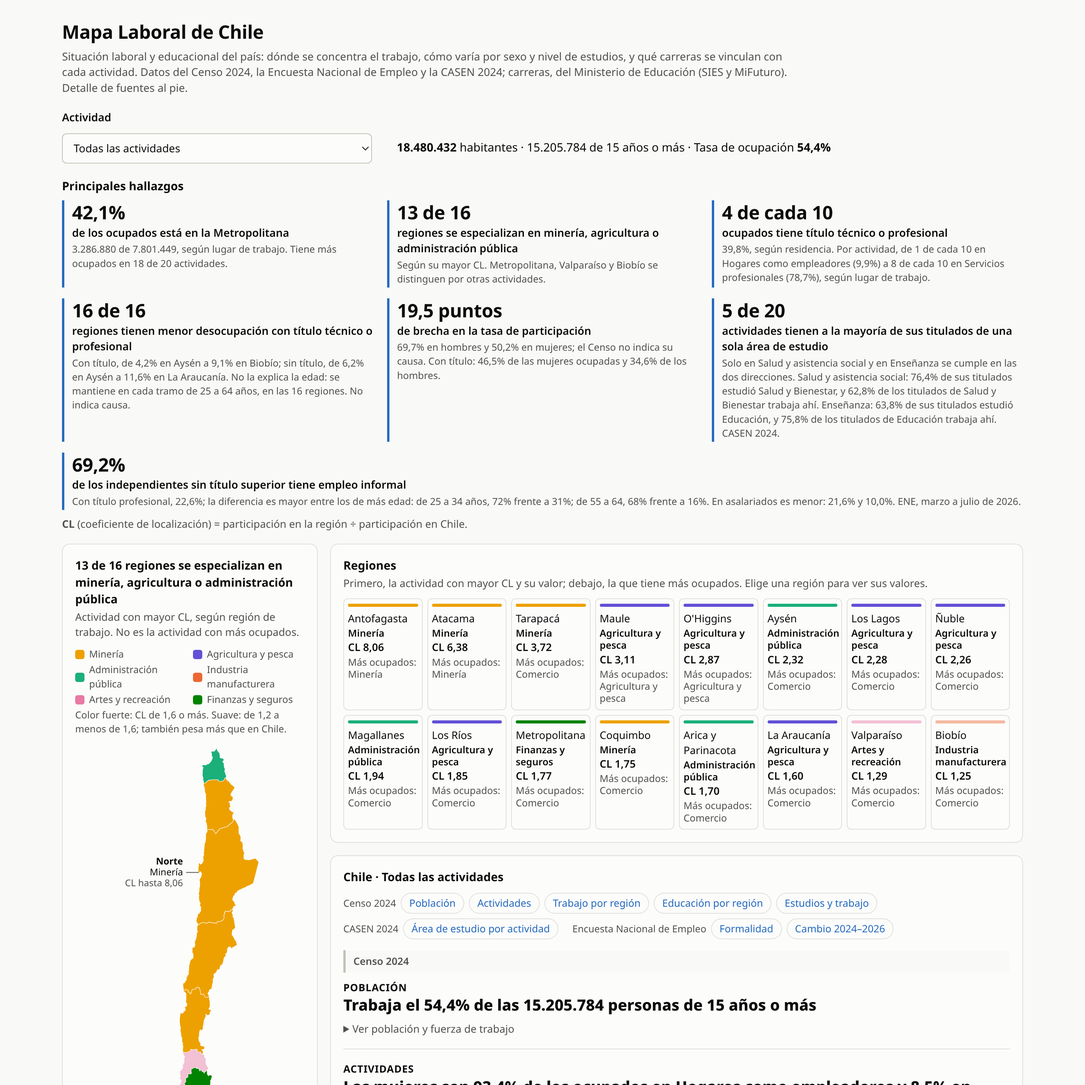
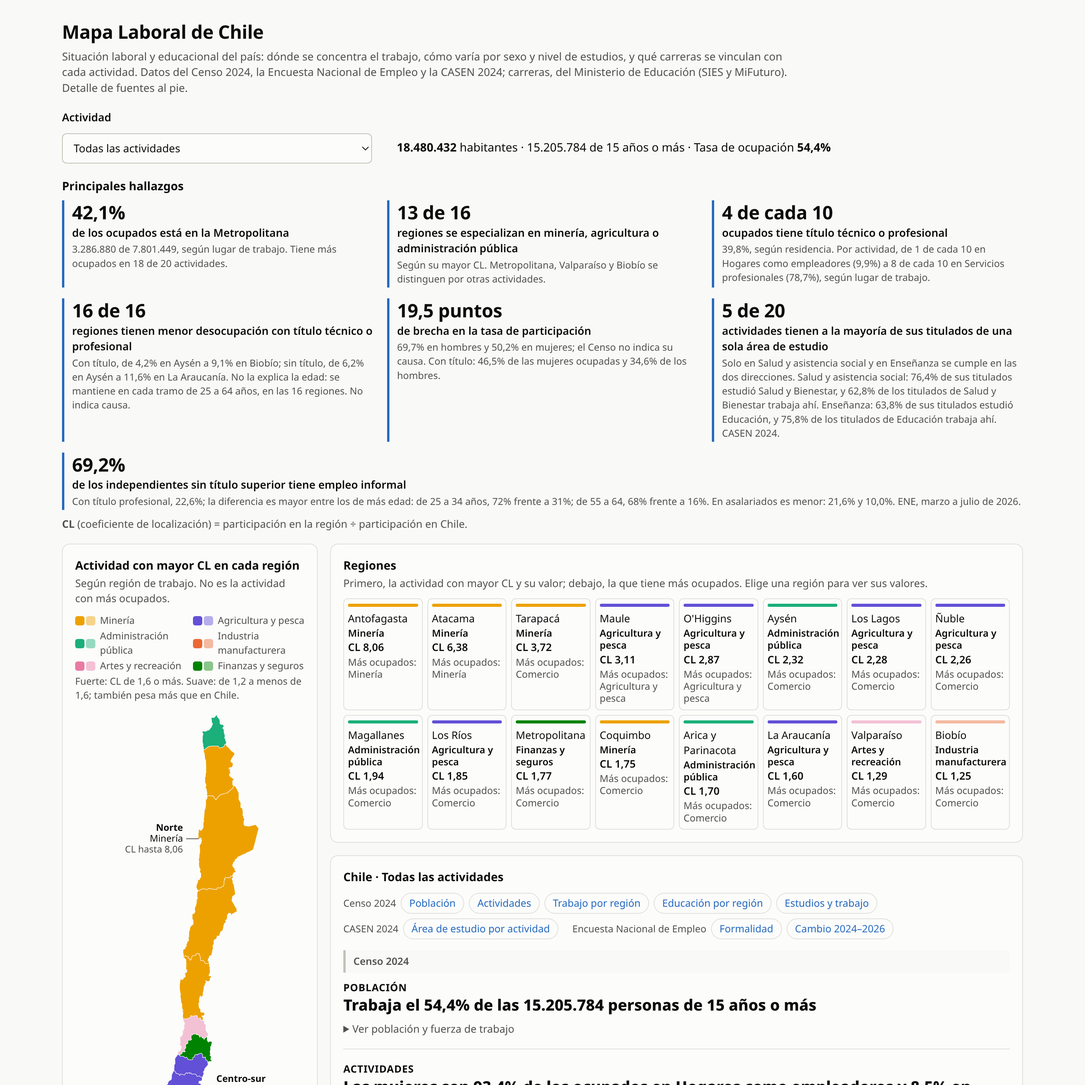
Ajusta la diagramación y los colores del resumen para que se lean a la primera
- Lista de regiones en 2 columnas entre 901 y 1290 px: el hueco junto al mapa baja de 661 a 262 px
- Título del mapa propio ("Actividad con mayor CL en cada región"), sin repetir la tarjeta
- Leyenda con el par fuerte y suave de cada actividad
- Desocupados en gris oscuro en vez de negro (validado en modo claro y oscuro) y "Sin dato" con textura
- La cabecera no corta "Tasa de ocupación" a 1000 px

Changed region(s): [[0.0621, 0.4971, 0.2796, 1.0]]

diff --git a/docs/index.html b/docs/index.html
@@ -13,12 +13,15 @@ Estructura de la página. generar_mapa.py le agrega los estilos de css/, el cód
    no, porque en Formalidad, la sección anterior, significan informal y formal. Validados con validate_palette.js (--ordinal).
    Área principal (--area) en morado, un tono que no usan las secciones vecinas (verde = título, azul y ocre = formalidad);
    el resto va en gris, como contexto. Validado con validate_palette.js en claro y oscuro.
-   Sin título superior (--tit-sin) va en gris: en verde, el color de los títulos en Educación por región, se leía como titulado. */
+   Sin título superior (--tit-sin) va en gris: en verde, el color de los títulos en Educación por región, se leía como titulado.
+   Desocupados (--desoc) en gris oscuro y no en negro: el negro hacía de la categoría más chica (5,1%) la que más pesaba.
+   Con ocupados (azul) separa ΔE 16,4 en claro y 19,9 en oscuro (validate_palette.js); los grises fallan croma a propósito,
+   son contexto neutro con rótulo y tabla. "Sin dato" va con textura: con el mismo gris que "fuera" eran un color para dos. */
 .viz-root{color-scheme:light;--plano:#f9f9f7;--sup:#fcfcfb;--t1:#0b0b0b;--t2:#52514e;--linea:#e1e0d9;--eje:#c3c2b7;--acento:#256abf;--hom:#256abf;--muj:#c8508a;--cl:#c9302f;--a24:#9d92ea;--a26:#4f3dbd;--g24:#cfcdc6;--g26:#9a9890;--tit-con:#08724d;--tit-sin:#a3a19a;--recibe:#0081a8;--ed-pro:#08724d;--fo-inf:#c08a1e;--fo-for:#2a6ea8;--fo-for-txt:#fff;--ed-tec:#8a8a1a;--entrega:#b5562b;--area:#8b3d9e;--area-no:#bdbbb3;--aviso-fondo:#fdf4e3;
---sd:#bdbbb3;--c0:#3987e5;--c1:#86b6ef;--c2:#cde2fb;--c3:#e2e0d8;--c4:#f7c6c1;--c5:#ee8a84;--c6:#c9302f;
+--sd:#bdbbb3;--desoc:#5f5e59;--desoc-txt:#fff;--c0:#3987e5;--c1:#86b6ef;--c2:#cde2fb;--c3:#e2e0d8;--c4:#f7c6c1;--c5:#ee8a84;--c6:#c9302f;
 --k0:#eda100;--k1:#6250d6;--k2:#1baf7a;--k3:#eb6834;--k4:#e87ba4;--k5:#008300;}
 @media (prefers-color-scheme:dark){.viz-root{color-scheme:dark;--plano:#0d0d0d;--sup:#1a1a19;--t1:#f0efec;--t2:#c3c2b7;--linea:#2c2c2a;--eje:#383835;--acento:#6da7ec;--hom:#4f8fe0;--muj:#d9619d;--cl:#e0605a;--a24:#7466d8;--a26:#b2a9f2;--g24:#45443f;--g26:#7a7872;--tit-con:#1aab78;--tit-sin:#62615b;--recibe:#1a9cc4;--ed-pro:#1aab78;--fo-inf:#c08400;--fo-for:#5a9ad0;--fo-for-txt:#0b0b0b;--ed-tec:#7a7a10;--entrega:#c9673a;--area:#b47ac7;--area-no:#55534e;--aviso-fondo:#2a2416;
---sd:#55534e;--c0:#5598e7;--c1:#256abf;--c2:#184f95;--c3:#383835;--c4:#7d2b2a;--c5:#b73a39;--c6:#ee8a84;
+--sd:#55534e;--desoc:#d6d4cd;--desoc-txt:#0b0b0b;--c0:#5598e7;--c1:#256abf;--c2:#184f95;--c3:#383835;--c4:#7d2b2a;--c5:#b73a39;--c6:#ee8a84;
 --k0:#c98500;--k1:#9085e9;--k2:#199e70;--k3:#d95926;--k4:#d55181;--k5:#008300;}}
 *{box-sizing:border-box}
 body{margin:0;background:var(--plano)}
@@ -69,7 +72,7 @@ details{margin-top:8px}summary{cursor:pointer;color:var(--t2);font-size:13.5px}
 .lista .v{font-variant-numeric:tabular-nums;font-weight:600}
 /* En el resumen, el nombre de la actividad no cabe junto a la región: va debajo, con su color al lado. */
 .lista small{display:flex;align-items:flex-start;gap:4px;font-size:12.5px;line-height:1.25;margin-top:2px;color:var(--t2);font-weight:400}
-.muestra{display:inline-block;flex:none;width:12px;height:12px;margin-top:1px;border-radius:3px}
+.muestra{display:inline-block;flex:none;width:12px;height:12px;margin-top:1px;border-radius:3px}.muestra+.muestra{margin-left:-4px}.nw{white-space:nowrap}
 .muestra.suave{opacity:.45}
 .leyenda-cat{display:grid;gap:4px;margin-top:10px;font-size:13px;color:var(--t2)}
 .leyenda-cat div{display:flex;align-items:center;gap:6px}
@@ -84,7 +87,7 @@ details{margin-top:8px}summary{cursor:pointer;color:var(--t2);font-size:13.5px}
 /* Partes de un todo: la barra usa tonos propios para no confundirse con los colores de actividad ni con el rojo y azul del mapa. */
 .barra-poblacion{display:flex;gap:2px;height:14px;margin:10px 0 4px}
 .barra-poblacion i{display:block;min-width:2px;border-radius:2px}
-.s-trabajan{background:var(--acento)}.s-buscan{background:var(--t1)}.s-no-buscan{background:var(--sd)}.s-sin-dato{background:var(--eje);box-shadow:inset 0 0 0 1px var(--sd)}
+.s-trabajan{background:var(--acento)}.s-buscan{background:var(--desoc)}.s-no-buscan{background:var(--sd)}.s-sin-dato{background:repeating-linear-gradient(135deg,var(--sd) 0 2px,transparent 2px 5px);box-shadow:inset 0 0 0 1px var(--sd)}
 .celda-muestra{display:flex;align-items:center;gap:6px}
 .total td{font-weight:650}
 /* Lo que un lector debe llevarse en segundos va en cifras grandes; el resto queda en los paneles. */
@@ -203,7 +206,7 @@ button.evc-grupo{all:unset;box-sizing:border-box;cursor:pointer}button.evc-grupo
 .sn-fila{display:grid;grid-template-columns:minmax(0,11rem) minmax(0,420px) auto;justify-content:start;align-items:center;gap:6px 12px;padding:3px 4px;border-radius:4px;font-size:13px}
 .sn-fila:hover,.sn-fila:focus-visible{background:var(--plano)}.sn-fila:focus-visible{outline:2px solid var(--acento)}
 .sn-barra{display:flex;gap:2px;height:20px}.sn-barra i{display:flex;align-items:center;justify-content:center;min-width:2px;border-radius:2px;font-style:normal;font-size:12px;color:#fff;font-variant-numeric:tabular-nums}
-.sn-barra i.s-no-buscan{color:var(--t1)}.sn-tasas{color:var(--t2);font-size:12.5px}.sn-tasas b{color:var(--t1);font-weight:600}
+.sn-barra i.s-no-buscan{color:var(--t1)}.sn-barra i.s-buscan{color:var(--desoc-txt)}.sn-tasas{color:var(--t2);font-size:12.5px}.sn-tasas b{color:var(--t1);font-weight:600}
 .gs-leyenda i.s-trabajan,.gs-leyenda i.s-buscan,.gs-leyenda i.s-no-buscan{border-radius:2px}
 .tcon{background:var(--tit-con)}.tsin{background:var(--tit-sin)}.gs-leyenda i.tcon,.gs-leyenda i.tsin{border-radius:2px}
 .gs-barra b{position:absolute;top:-3px;bottom:-3px;border-left:2px dashed var(--t1)}
@@ -276,6 +279,9 @@ button.sn-fila{font:inherit;color:inherit;background:none;border:0;text-align:le
 }
 @media(max-width:1290px){.lista{grid-template-columns:repeat(4,minmax(0,1fr))}}
 @media(max-width:1290px){.detalle{grid-column:1/-1}.tarjeta.mapa{grid-row:auto}}
+/* Entre 901 y 1290 px el detalle baja bajo el mapa (sus tablas necesitan ~860 px) y la lista quedaba a su lado, de
+   440 a 580 px de alto frente a 1170 del mapa: 500 a 660 px vacíos. En 2 columnas la lista se alarga hasta casi el mapa. */
+@media(min-width:901px) and (max-width:1290px){.lista{grid-template-columns:repeat(2,minmax(0,1fr))}}
 @media(max-width:900px){.grilla{grid-template-columns:minmax(0,1fr)}}
 @media(max-width:640px){.fo-reg.gs-cab{display:grid}.fo-reg.gs-cab .fo-nombre,.fo-reg.gs-cab span:nth-child(2){display:none}.fo-reg.gs-cab .fo-miles{grid-column:2}.fo-panel .fo-fila,.fo-reg{grid-template-columns:minmax(0,1fr) 6.6em}.fo-paneles{grid-template-columns:minmax(0,1fr)}.fo-fila{grid-template-columns:minmax(0,1fr) 5.6em;row-gap:2px}.fo-nombre{grid-column:1/-1}.ed-fila{grid-template-columns:minmax(0,1fr) 5.4em;row-gap:2px}.ed-fila .cl-nombre{grid-column:1/-1}.ed-fila .gs-num{grid-column:2}.ed-fila.gs-cab{display:grid}.ed-fila.gs-cab .cl-nombre,.ed-fila.gs-cab span:nth-child(2){display:none}.ar-fila{grid-template-columns:minmax(0,1fr) 5.4em;row-gap:2px}.ar-fila .cl-nombre{grid-column:1/-1}.ar-fila .gs-num{grid-column:2}.ar-fila.gs-cab{display:grid}.ar-fila.gs-cab .cl-nombre,.ar-fila.gs-cab span:nth-child(2){display:none}.tr-fila{grid-template-columns:minmax(0,1fr)}.gs-fila{grid-template-columns:3.4em minmax(0,1fr) 3.4em;row-gap:2px;padding:4px}.gs-nombre{grid-column:1/-1}.gs-cab{display:none}.sn-fila{grid-template-columns:minmax(0,1fr);row-gap:3px}.evc-col{width:26px}.evc-col em{font-size:11px}.evc-cols{gap:2px}.evc{padding-left:2em}.evc-grilla span{left:2em}.evc.compacto{padding-left:4.4em}.compacto .evc-grilla span{left:4.4em}table{display:block;overflow-x:auto}.viz-root{padding:14px}.grilla{grid-template-columns:minmax(0,1fr)}.mapa svg{max-width:200px}.lista{grid-template-columns:repeat(2,minmax(0,1fr))}}
 /* Actividades en celular: el encabezado de columnas se oculta, así que cada cifra lleva su rótulo en su propia línea. */
@@ -404,18 +410,23 @@ function anotarMapa(notas){
    `<tspan x="${tx}" dy="${linea}">${esc(d)}</tspan><tspan class="a-d" x="${tx}" dy="${linea}">CL hasta ${v}</tspan></text></g>`}).join("")}
 function pintarResumen(){
  const colores=Object.entries(RES.colores),ch=POB.chile;
- document.getElementById("t-mapa").textContent="13 de 16 regiones se especializan en minería, agricultura o administración pública";
- document.getElementById("n-mapa").textContent="Actividad con mayor CL, según región de trabajo. No es la actividad con más ocupados.";
+ // El título dice qué muestra el mapa; el hallazgo ("13 de 16 regiones…") va en la tarjeta de arriba y en las
+ // anotaciones. Antes eran idénticos y el del mapa ocupaba tres líneas.
+ document.getElementById("t-mapa").textContent="Actividad con mayor CL en cada región";
+ document.getElementById("n-mapa").textContent="Según región de trabajo. No es la actividad con más ocupados.";
  document.getElementById("leyenda").className="leyenda-cat";
- document.getElementById("leyenda").innerHTML=colores.map(([c,i])=>`<div><i class="muestra" style="background:var(--k${i})"></i>${esc(porCiiu(c).corto)}</div>`).join("")+
+ // Cada actividad con su par fuerte y suave: con solo el fuerte, una región en tono suave (Biobío, en salmón) se leía
+ // como otra actividad.
+ document.getElementById("leyenda").innerHTML=colores.map(([c,i])=>`<div><i class="muestra" style="background:var(--k${i})"></i><i class="muestra suave" style="background:var(--k${i})"></i>${esc(porCiiu(c).corto)}</div>`).join("")+
   // El resto del sitio lee "sobre Chile" desde 1,2: la leyenda nombra los dos cortes para que 1,6 no parezca otro umbral.
-  `<div>Color fuerte: CL de ${RES.corte_suave} o más. Suave: de ${RES.corte_sobre} a menos de ${RES.corte_suave}; también pesa más que en Chile.</div>`;
+  `<div>Fuerte: CL de ${RES.corte_suave} o más. Suave: de ${RES.corte_sobre} a menos de ${RES.corte_suave}; también pesa más que en Chile.</div>`;
  document.getElementById("ejes").hidden=true;
  document.querySelectorAll(".region").forEach(p=>{const r=Number(p.dataset.r),d=RES.regiones[r],a=porCiiu(d.ciiu);
   p.style.fill=`var(--k${RES.colores[d.ciiu]})`;p.style.opacity=d.suave?.45:1;
   p.setAttribute("aria-label",`${DATOS.regiones[r]}: mayor CL en ${a.corto}, ${d.txt}`);p.setAttribute("aria-pressed",false)});
  document.getElementById("contorno").setAttribute("d","");
- document.getElementById("lectura").innerHTML=`<strong>${num(POB.poblacion_total)}</strong> habitantes · ${num(ch.total)} de 15 años o más · Tasa de ocupación <strong>${num(ch.pct_trabajan,1)}%</strong>`;
+ // Cada dato en un bloque que no se corta: a 1000 px "54,4%" quedaba solo en la segunda línea, lejos de su rótulo.
+ document.getElementById("lectura").innerHTML=`<span class="nw"><strong>${num(POB.poblacion_total)}</strong> habitantes</span> · <span class="nw">${num(ch.total)} de 15 años o más</span> · <span class="nw">Tasa de ocupación <strong>${num(ch.pct_trabajan,1)}%</strong></span>`;
  document.getElementById("n-lista").textContent="Primero, la actividad con mayor CL y su valor; debajo, la que tiene más ocupados. Elige una región para ver sus valores.";
  const orden=Object.entries(RES.regiones).map(([r,d])=>[Number(r),d]).sort((a,b)=>b[1].peso-a[1].peso);
  const rm=POB.regiones[13],sx=POB.sexo,cl=r=>RES.regiones[r].txt;

diff --git a/src/Visualizacion/web/js/mapa.js b/src/Visualizacion/web/js/mapa.js
@@ -22,18 +22,23 @@ function anotarMapa(notas){
    `<tspan x="${tx}" dy="${linea}">${esc(d)}</tspan><tspan class="a-d" x="${tx}" dy="${linea}">CL hasta ${v}</tspan></text></g>`}).join("")}
 function pintarResumen(){
  const colores=Object.entries(RES.colores),ch=POB.chile;
- document.getElementById("t-mapa").textContent="13 de 16 regiones se especializan en minería, agricultura o administración pública";
- document.getElementById("n-mapa").textContent="Actividad con mayor CL, según región de trabajo. No es la actividad con más ocupados.";
+ // El título dice qué muestra el mapa; el hallazgo ("13 de 16 regiones…") va en la tarjeta de arriba y en las
+ // anotaciones. Antes eran idénticos y el del mapa ocupaba tres líneas.
+ document.getElementById("t-mapa").textContent="Actividad con mayor CL en cada región";
+ document.getElementById("n-mapa").textContent="Según región de trabajo. No es la actividad con más ocupados.";
  document.getElementById("leyenda").className="leyenda-cat";
- document.getElementById("leyenda").innerHTML=colores.map(([c,i])=>`<div><i class="muestra" style="background:var(--k${i})"></i>${esc(porCiiu(c).corto)}</div>`).join("")+
+ // Cada actividad con su par fuerte y suave: con solo el fuerte, una región en tono suave (Biobío, en salmón) se leía
+ // como otra actividad.
+ document.getElementById("leyenda").innerHTML=colores.map(([c,i])=>`<div><i class="muestra" style="background:var(--k${i})"></i><i class="muestra suave" style="background:var(--k${i})"></i>${esc(porCiiu(c).corto)}</div>`).join("")+
   // El resto del sitio lee "sobre Chile" desde 1,2: la leyenda nombra los dos cortes para que 1,6 no parezca otro umbral.
-  `<div>Color fuerte: CL de ${RES.corte_suave} o más. Suave: de ${RES.corte_sobre} a menos de ${RES.corte_suave}; también pesa más que en Chile.</div>`;
+  `<div>Fuerte: CL de ${RES.corte_suave} o más. Suave: de ${RES.corte_sobre} a menos de ${RES.corte_suave}; también pesa más que en Chile.</div>`;
  document.getElementById("ejes").hidden=true;
  document.querySelectorAll(".region").forEach(p=>{const r=Number(p.dataset.r),d=RES.regiones[r],a=porCiiu(d.ciiu);
   p.style.fill=`var(--k${RES.colores[d.ciiu]})`;p.style.opacity=d.suave?.45:1;
   p.setAttribute("aria-label",`${DATOS.regiones[r]}: mayor CL en ${a.corto}, ${d.txt}`);p.setAttribute("aria-pressed",false)});
  document.getElementById("contorno").setAttribute("d","");
- document.getElementById("lectura").innerHTML=`<strong>${num(POB.poblacion_total)}</strong> habitantes · ${num(ch.total)} de 15 años o más · Tasa de ocupación <strong>${num(ch.pct_trabajan,1)}%</strong>`;
+ // Cada dato en un bloque que no se corta: a 1000 px "54,4%" quedaba solo en la segunda línea, lejos de su rótulo.
+ document.getElementById("lectura").innerHTML=`<span class="nw"><strong>${num(POB.poblacion_total)}</strong> habitantes</span> · <span class="nw">${num(ch.total)} de 15 años o más</span> · <span class="nw">Tasa de ocupación <strong>${num(ch.pct_trabajan,1)}%</strong></span>`;
  document.getElementById("n-lista").textContent="Primero, la actividad con mayor CL y su valor; debajo, la que tiene más ocupados. Elige una región para ver sus valores.";
  const orden=Object.entries(RES.regiones).map(([r,d])=>[Number(r),d]).sort((a,b)=>b[1].peso-a[1].peso);
  const rm=POB.regiones[13],sx=POB.sexo,cl=r=>RES.regiones[r].txt;

diff --git a/src/Visualizacion/web/css/componentes.css b/src/Visualizacion/web/css/componentes.css
@@ -31,7 +31,7 @@ Piezas de la página: lectura, lista de regiones, mapa y leyenda, cifras grandes
 .lista .v{font-variant-numeric:tabular-nums;font-weight:600}
 /* En el resumen, el nombre de la actividad no cabe junto a la región: va debajo, con su color al lado. */
 .lista small{display:flex;align-items:flex-start;gap:4px;font-size:12.5px;line-height:1.25;margin-top:2px;color:var(--t2);font-weight:400}
-.muestra{display:inline-block;flex:none;width:12px;height:12px;margin-top:1px;border-radius:3px}
+.muestra{display:inline-block;flex:none;width:12px;height:12px;margin-top:1px;border-radius:3px}.muestra+.muestra{margin-left:-4px}.nw{white-space:nowrap}
 .muestra.suave{opacity:.45}
 .leyenda-cat{display:grid;gap:4px;margin-top:10px;font-size:13px;color:var(--t2)}
 .leyenda-cat div{display:flex;align-items:center;gap:6px}
@@ -46,7 +46,7 @@ Piezas de la página: lectura, lista de regiones, mapa y leyenda, cifras grandes
 /* Partes de un todo: la barra usa tonos propios para no confundirse con los colores de actividad ni con el rojo y azul del mapa. */
 .barra-poblacion{display:flex;gap:2px;height:14px;margin:10px 0 4px}
 .barra-poblacion i{display:block;min-width:2px;border-radius:2px}
-.s-trabajan{background:var(--acento)}.s-buscan{background:var(--t1)}.s-no-buscan{background:var(--sd)}.s-sin-dato{background:var(--eje);box-shadow:inset 0 0 0 1px var(--sd)}
+.s-trabajan{background:var(--acento)}.s-buscan{background:var(--desoc)}.s-no-buscan{background:var(--sd)}.s-sin-dato{background:repeating-linear-gradient(135deg,var(--sd) 0 2px,transparent 2px 5px);box-shadow:inset 0 0 0 1px var(--sd)}
 .celda-muestra{display:flex;align-items:center;gap:6px}
 .total td{font-weight:650}
 /* Lo que un lector debe llevarse en segundos va en cifras grandes; el resto queda en los paneles. */
@@ -165,7 +165,7 @@ button.evc-grupo{all:unset;box-sizing:border-box;cursor:pointer}button.evc-grupo
 .sn-fila{display:grid;grid-template-columns:minmax(0,11rem) minmax(0,420px) auto;justify-content:start;align-items:center;gap:6px 12px;padding:3px 4px;border-radius:4px;font-size:13px}
 .sn-fila:hover,.sn-fila:focus-visible{background:var(--plano)}.sn-fila:focus-visible{outline:2px solid var(--acento)}
 .sn-barra{display:flex;gap:2px;height:20px}.sn-barra i{display:flex;align-items:center;justify-content:center;min-width:2px;border-radius:2px;font-style:normal;font-size:12px;color:#fff;font-variant-numeric:tabular-nums}
-.sn-barra i.s-no-buscan{color:var(--t1)}.sn-tasas{color:var(--t2);font-size:12.5px}.sn-tasas b{color:var(--t1);font-weight:600}
+.sn-barra i.s-no-buscan{color:var(--t1)}.sn-barra i.s-buscan{color:var(--desoc-txt)}.sn-tasas{color:var(--t2);font-size:12.5px}.sn-tasas b{color:var(--t1);font-weight:600}
 .gs-leyenda i.s-trabajan,.gs-leyenda i.s-buscan,.gs-leyenda i.s-no-buscan{border-radius:2px}
 .tcon{background:var(--tit-con)}.tsin{background:var(--tit-sin)}.gs-leyenda i.tcon,.gs-leyenda i.tsin{border-radius:2px}
 .gs-barra b{position:absolute;top:-3px;bottom:-3px;border-left:2px dashed var(--t1)}

diff --git a/src/Visualizacion/web/css/base.css b/src/Visualizacion/web/css/base.css
@@ -7,12 +7,15 @@ Colores (modo claro y oscuro), tipografía y estilos generales de texto, tablas 
    no, porque en Formalidad, la sección anterior, significan informal y formal. Validados con validate_palette.js (--ordinal).
    Área principal (--area) en morado, un tono que no usan las secciones vecinas (verde = título, azul y ocre = formalidad);
    el resto va en gris, como contexto. Validado con validate_palette.js en claro y oscuro.
-   Sin título superior (--tit-sin) va en gris: en verde, el color de los títulos en Educación por región, se leía como titulado. */
+   Sin título superior (--tit-sin) va en gris: en verde, el color de los títulos en Educación por región, se leía como titulado.
+   Desocupados (--desoc) en gris oscuro y no en negro: el negro hacía de la categoría más chica (5,1%) la que más pesaba.
+   Con ocupados (azul) separa ΔE 16,4 en claro y 19,9 en oscuro (validate_palette.js); los grises fallan croma a propósito,
+   son contexto neutro con rótulo y tabla. "Sin dato" va con textura: con el mismo gris que "fuera" eran un color para dos. */
 .viz-root{color-scheme:light;--plano:#f9f9f7;--sup:#fcfcfb;--t1:#0b0b0b;--t2:#52514e;--linea:#e1e0d9;--eje:#c3c2b7;--acento:#256abf;--hom:#256abf;--muj:#c8508a;--cl:#c9302f;--a24:#9d92ea;--a26:#4f3dbd;--g24:#cfcdc6;--g26:#9a9890;--tit-con:#08724d;--tit-sin:#a3a19a;--recibe:#0081a8;--ed-pro:#08724d;--fo-inf:#c08a1e;--fo-for:#2a6ea8;--fo-for-txt:#fff;--ed-tec:#8a8a1a;--entrega:#b5562b;--area:#8b3d9e;--area-no:#bdbbb3;--aviso-fondo:#fdf4e3;
---sd:#bdbbb3;--c0:#3987e5;--c1:#86b6ef;--c2:#cde2fb;--c3:#e2e0d8;--c4:#f7c6c1;--c5:#ee8a84;--c6:#c9302f;
+--sd:#bdbbb3;--desoc:#5f5e59;--desoc-txt:#fff;--c0:#3987e5;--c1:#86b6ef;--c2:#cde2fb;--c3:#e2e0d8;--c4:#f7c6c1;--c5:#ee8a84;--c6:#c9302f;
 --k0:#eda100;--k1:#6250d6;--k2:#1baf7a;--k3:#eb6834;--k4:#e87ba4;--k5:#008300;}
 @media (prefers-color-scheme:dark){.viz-root{color-scheme:dark;--plano:#0d0d0d;--sup:#1a1a19;--t1:#f0efec;--t2:#c3c2b7;--linea:#2c2c2a;--eje:#383835;--acento:#6da7ec;--hom:#4f8fe0;--muj:#d9619d;--cl:#e0605a;--a24:#7466d8;--a26:#b2a9f2;--g24:#45443f;--g26:#7a7872;--tit-con:#1aab78;--tit-sin:#62615b;--recibe:#1a9cc4;--ed-pro:#1aab78;--fo-inf:#c08400;--fo-for:#5a9ad0;--fo-for-txt:#0b0b0b;--ed-tec:#7a7a10;--entrega:#c9673a;--area:#b47ac7;--area-no:#55534e;--aviso-fondo:#2a2416;
---sd:#55534e;--c0:#5598e7;--c1:#256abf;--c2:#184f95;--c3:#383835;--c4:#7d2b2a;--c5:#b73a39;--c6:#ee8a84;
+--sd:#55534e;--desoc:#d6d4cd;--desoc-txt:#0b0b0b;--c0:#5598e7;--c1:#256abf;--c2:#184f95;--c3:#383835;--c4:#7d2b2a;--c5:#b73a39;--c6:#ee8a84;
 --k0:#c98500;--k1:#9085e9;--k2:#199e70;--k3:#d95926;--k4:#d55181;--k5:#008300;}}
 *{box-sizing:border-box}
 body{margin:0;background:var(--plano)}

diff --git a/src/Visualizacion/web/css/layout.css b/src/Visualizacion/web/css/layout.css
@@ -30,6 +30,9 @@ Va al final porque sus reglas para pantallas angostas deben ganar sobre las de c
 }
 @media(max-width:1290px){.lista{grid-template-columns:repeat(4,minmax(0,1fr))}}
 @media(max-width:1290px){.detalle{grid-column:1/-1}.tarjeta.mapa{grid-row:auto}}
+/* Entre 901 y 1290 px el detalle baja bajo el mapa (sus tablas necesitan ~860 px) y la lista quedaba a su lado, de
+   440 a 580 px de alto frente a 1170 del mapa: 500 a 660 px vacíos. En 2 columnas la lista se alarga hasta casi el mapa. */
+@media(min-width:901px) and (max-width:1290px){.lista{grid-template-columns:repeat(2,minmax(0,1fr))}}
 @media(max-width:900px){.grilla{grid-template-columns:minmax(0,1fr)}}
 @media(max-width:640px){.fo-reg.gs-cab{display:grid}.fo-reg.gs-cab .fo-nombre,.fo-reg.gs-cab span:nth-child(2){display:none}.fo-reg.gs-cab .fo-miles{grid-column:2}.fo-panel .fo-fila,.fo-reg{grid-template-columns:minmax(0,1fr) 6.6em}.fo-paneles{grid-template-columns:minmax(0,1fr)}.fo-fila{grid-template-columns:minmax(0,1fr) 5.6em;row-gap:2px}.fo-nombre{grid-column:1/-1}.ed-fila{grid-template-columns:minmax(0,1fr) 5.4em;row-gap:2px}.ed-fila .cl-nombre{grid-column:1/-1}.ed-fila .gs-num{grid-column:2}.ed-fila.gs-cab{display:grid}.ed-fila.gs-cab .cl-nombre,.ed-fila.gs-cab span:nth-child(2){display:none}.ar-fila{grid-template-columns:minmax(0,1fr) 5.4em;row-gap:2px}.ar-fila .cl-nombre{grid-column:1/-1}.ar-fila .gs-num{grid-column:2}.ar-fila.gs-cab{display:grid}.ar-fila.gs-cab .cl-nombre,.ar-fila.gs-cab span:nth-child(2){display:none}.tr-fila{grid-template-columns:minmax(0,1fr)}.gs-fila{grid-template-columns:3.4em minmax(0,1fr) 3.4em;row-gap:2px;padding:4px}.gs-nombre{grid-column:1/-1}.gs-cab{display:none}.sn-fila{grid-template-columns:minmax(0,1fr);row-gap:3px}.evc-col{width:26px}.evc-col em{font-size:11px}.evc-cols{gap:2px}.evc{padding-left:2em}.evc-grilla span{left:2em}.evc.compacto{padding-left:4.4em}.compacto .evc-grilla span{left:4.4em}table{display:block;overflow-x:auto}.viz-root{padding:14px}.grilla{grid-template-columns:minmax(0,1fr)}.mapa svg{max-width:200px}.lista{grid-template-columns:repeat(2,minmax(0,1fr))}}
 /* Actividades en celular: el encabezado de columnas se oculta, así que cada cifra lleva su rótulo en su propia línea. */

diff --git a/docs/nota_de_lectura.md b/docs/nota_de_lectura.md
@@ -52,7 +52,7 @@ La vista inicial resume la población, las 20 actividades, la actividad con mayo
 | **Poco fiable** | Dato de encuesta con coeficiente de variación entre 15 y 30: se muestra, pero debe leerse con cautela | ENE y CASEN |
 
 ## Lectura de colores
-**En el resumen,** cada color es la actividad con mayor CL en la región, no la de más ocupados. En la sección Actividades, un gráfico de barras muestra la región con mayor CL de cada actividad, ordenadas de mayor a menor; arriba va Chile, con CL 1 en todas las actividades por ser la base de comparación, y una línea marca ese 1 en cada barra; los ocupados de esa región se ven al pasar el mouse o en la vista de la actividad, y ⚠ marca las actividades en que Censo y ENE difieren en tamaño. Cada tarjeta indica también la actividad con más ocupados de la región. Un color suave indica un CL de 1,2 a menos de 1,6, que también es sobre Chile; la leyenda nombra ambos cortes para que el 1,6 no parezca otro umbral de lectura. Hoy son Biobío y Valparaíso.
+**En el resumen,** cada color es la actividad con mayor CL en la región, no la de más ocupados. En la sección Actividades, un gráfico de barras muestra la región con mayor CL de cada actividad, ordenadas de mayor a menor; arriba va Chile, con CL 1 en todas las actividades por ser la base de comparación, y una línea marca ese 1 en cada barra; los ocupados de esa región se ven al pasar el mouse o en la vista de la actividad, y ⚠ marca las actividades en que Censo y ENE difieren en tamaño. Cada tarjeta indica también la actividad con más ocupados de la región. Un color suave indica un CL de 1,2 a menos de 1,6, que también es sobre Chile; la leyenda nombra ambos cortes para que el 1,6 no parezca otro umbral de lectura, y muestra cada actividad con su par de colores, fuerte y suave: con solo el fuerte, una región en tono suave se leía como otra actividad. Hoy son Biobío y Valparaíso. El título del mapa dice qué muestra ("Actividad con mayor CL en cada región"); el hallazgo "13 de 16 regiones" queda en su tarjeta, porque antes los dos textos eran idénticos. Entre 901 y 1290 px las tarjetas de regiones van en 2 columnas, para que la lista llegue casi al alto del mapa: en 4 columnas quedaban de 500 a 660 px vacíos a su lado, porque el detalle baja bajo el mapa (sus tablas necesitan unos 860 px). En las barras de población, desocupados va en gris oscuro y no en negro, que hacía pesar más a la categoría más chica, y "sin dato" lleva textura, porque tenía el mismo gris que "fuera de la fuerza de trabajo".
 
 **Al elegir una actividad,** el mapa usa 7 tramos de CL. Los cortes son criterios de trabajo, no un estándar oficial.
 

diff --git a/README.md b/README.md
@@ -6,7 +6,7 @@ Mapa interactivo sobre la situación laboral y educacional de Chile. Muestra dó
 
 La vista inicial resume la población, las 20 actividades (con un gráfico de hombres y mujeres y otro de la región donde más pesa cada una), el área de estudio de los titulados de cada actividad y la formalidad del trabajo, con un índice de secciones y el hallazgo de cada una como título. Al elegir una actividad, el mapa colorea cada región según su coeficiente de localización (CL). Al elegir una región, se ven sus cifras por sexo y nivel de estudios, y las carreras afines a nivel nacional, cada una con su ficha de titulados, empleabilidad e ingresos.
 
-**Para verlo:** descarga [`docs/index.html`](docs/index.html) y ábrelo en el navegador. Es un solo archivo de 434 KB, sin servidor ni dependencias. Cada vista tiene su propio enlace: por ejemplo, `index.html#B/2` abre Minería en Antofagasta, y el botón "atrás" del navegador vuelve a la vista anterior.
+**Para verlo:** descarga [`docs/index.html`](docs/index.html) y ábrelo en el navegador. Es un solo archivo de 436 KB, sin servidor ni dependencias. Cada vista tiene su propio enlace: por ejemplo, `index.html#B/2` abre Minería en Antofagasta, y el botón "atrás" del navegador vuelve a la vista anterior.
 
 ![Vista inicial del mapa: cada región tiene el color de la actividad que la distingue, junto a los principales hallazgos, la lista de regiones y el gráfico de hombres y mujeres por actividad](docs/mapa.png)
 
